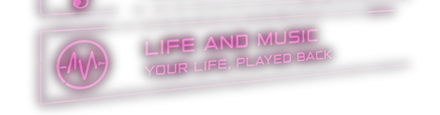
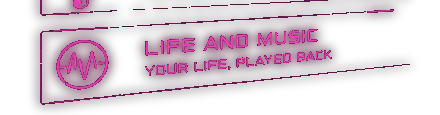
Vespera room: fix muddy hover glow (hard-alpha erase, not paint-over)
The hover overlay's alpha was derived entirely from a blurred version of
the text mask, clipped/boosted -- fine for the halo bleeding onto the
wall, but at the letterforms themselves the blur (sigma 5.5) sometimes
left alpha below 1.0 on thinner strokes. Result: the pink recolor
blended with the teal base showing through underneath instead of fully
replacing it -- a muddy pink/teal mix, like paint over unremoved primer.

Split the alpha into two regions instead of one blurred value everywhere:
alpha = 1.0 wherever the ORIGINAL unblurred mask is true (a full,
complete swap to pink at the actual letters, no teal bleed-through
possible), and only the blurred glow value outside that hard shape, for
the soft halo. Documented in img/README.txt.

diff --git a/service-worker.js b/service-worker.js
@@ -1,4 +1,4 @@
-const CACHE_VERSION = 'lifeos-v83';
+const CACHE_VERSION = 'lifeos-v84';
 const APP_SHELL = [
   './',
   './index.html',